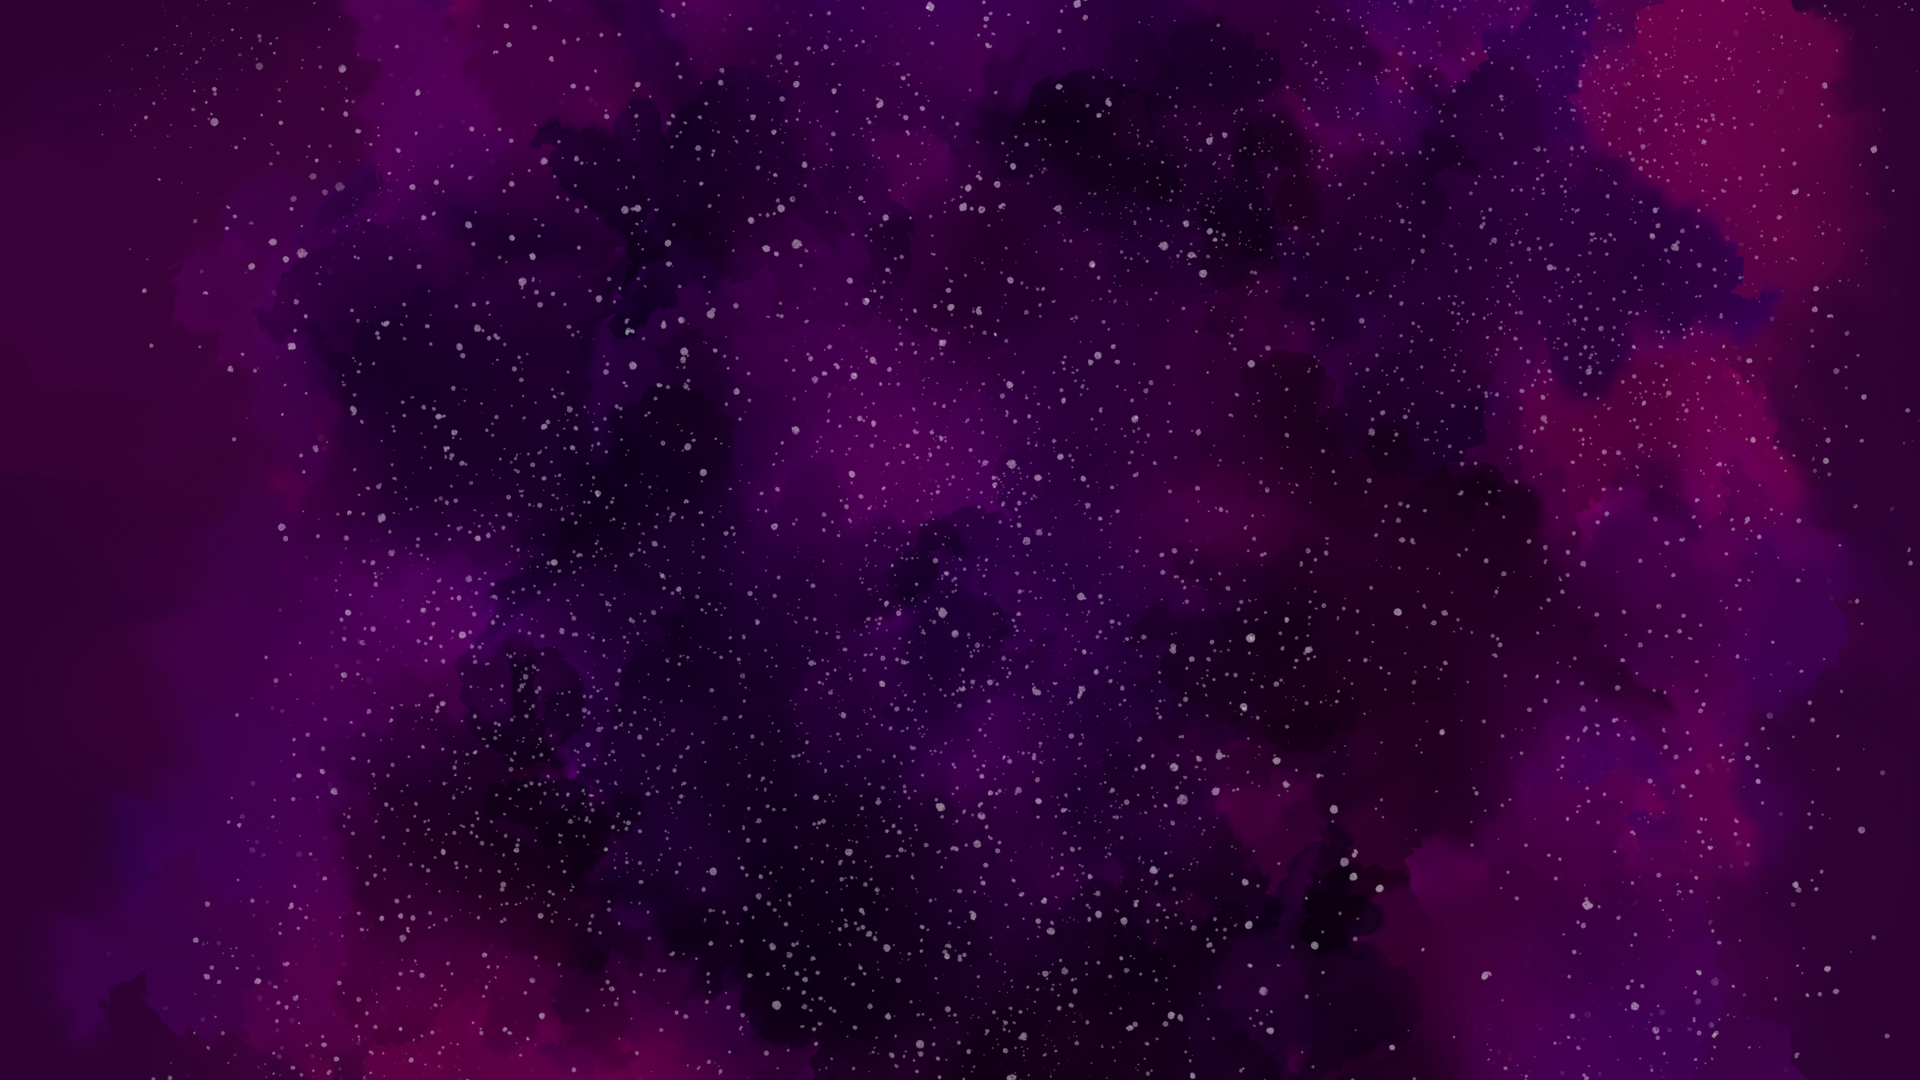
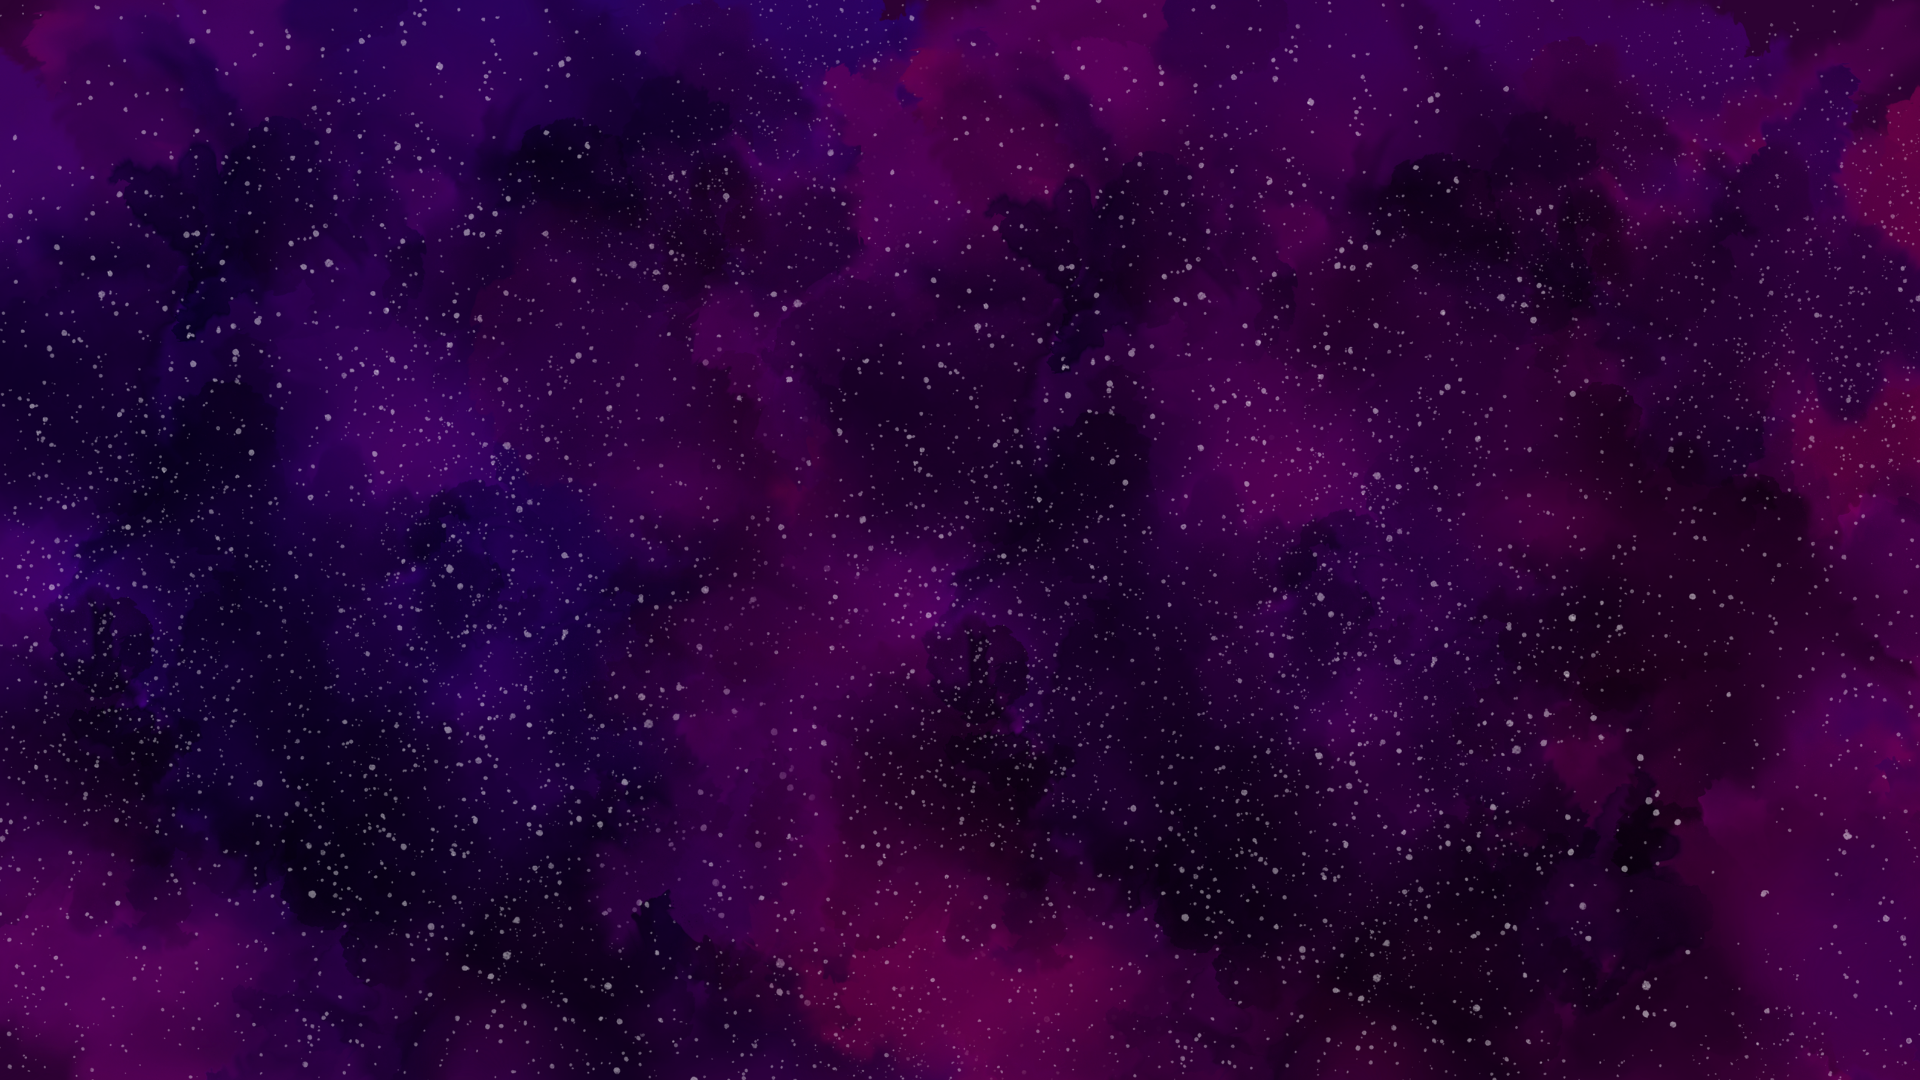
Correção do fundo.

diff --git a/css/layout.css b/css/layout.css
@@ -15,9 +15,10 @@ body {
 
     background-color: #1e0035;
     background-image: url("../assets/background/background.png");
-    background-position: cover;
-    background-repeat: norepeat;
-    background-size: 1920px 1080px;
+    background-position: center center;
+    background-repeat: no-repeat;
+    background-size: cover;
+    background-attachment: fixed;
 }
 
 button,